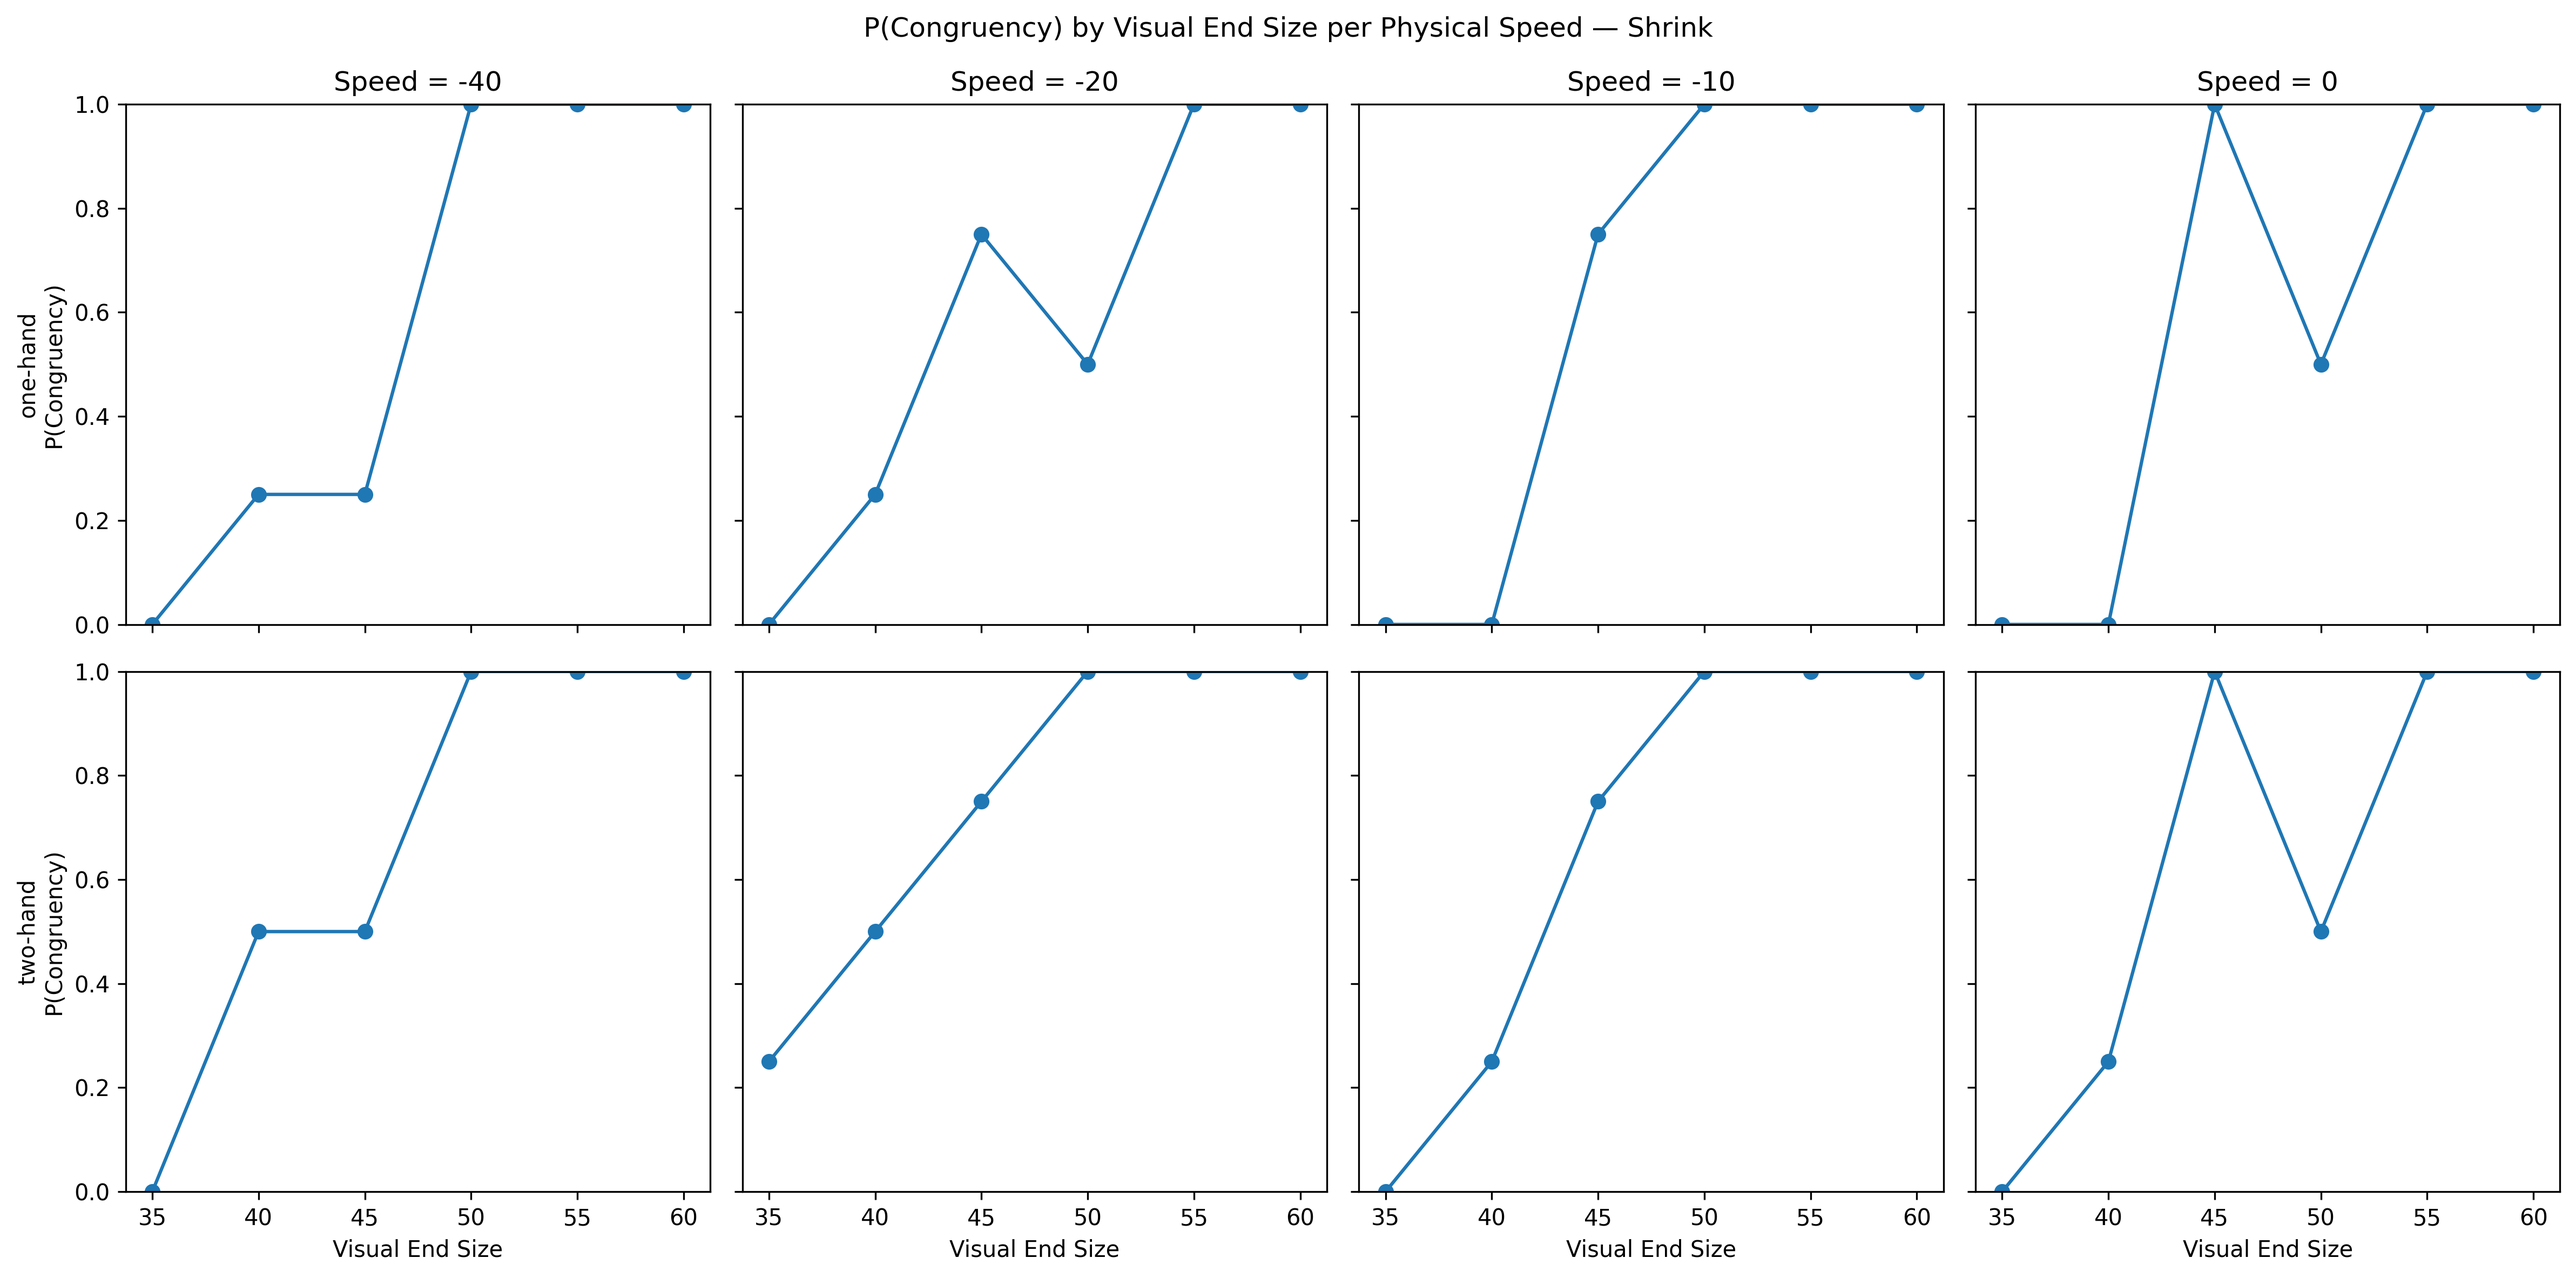
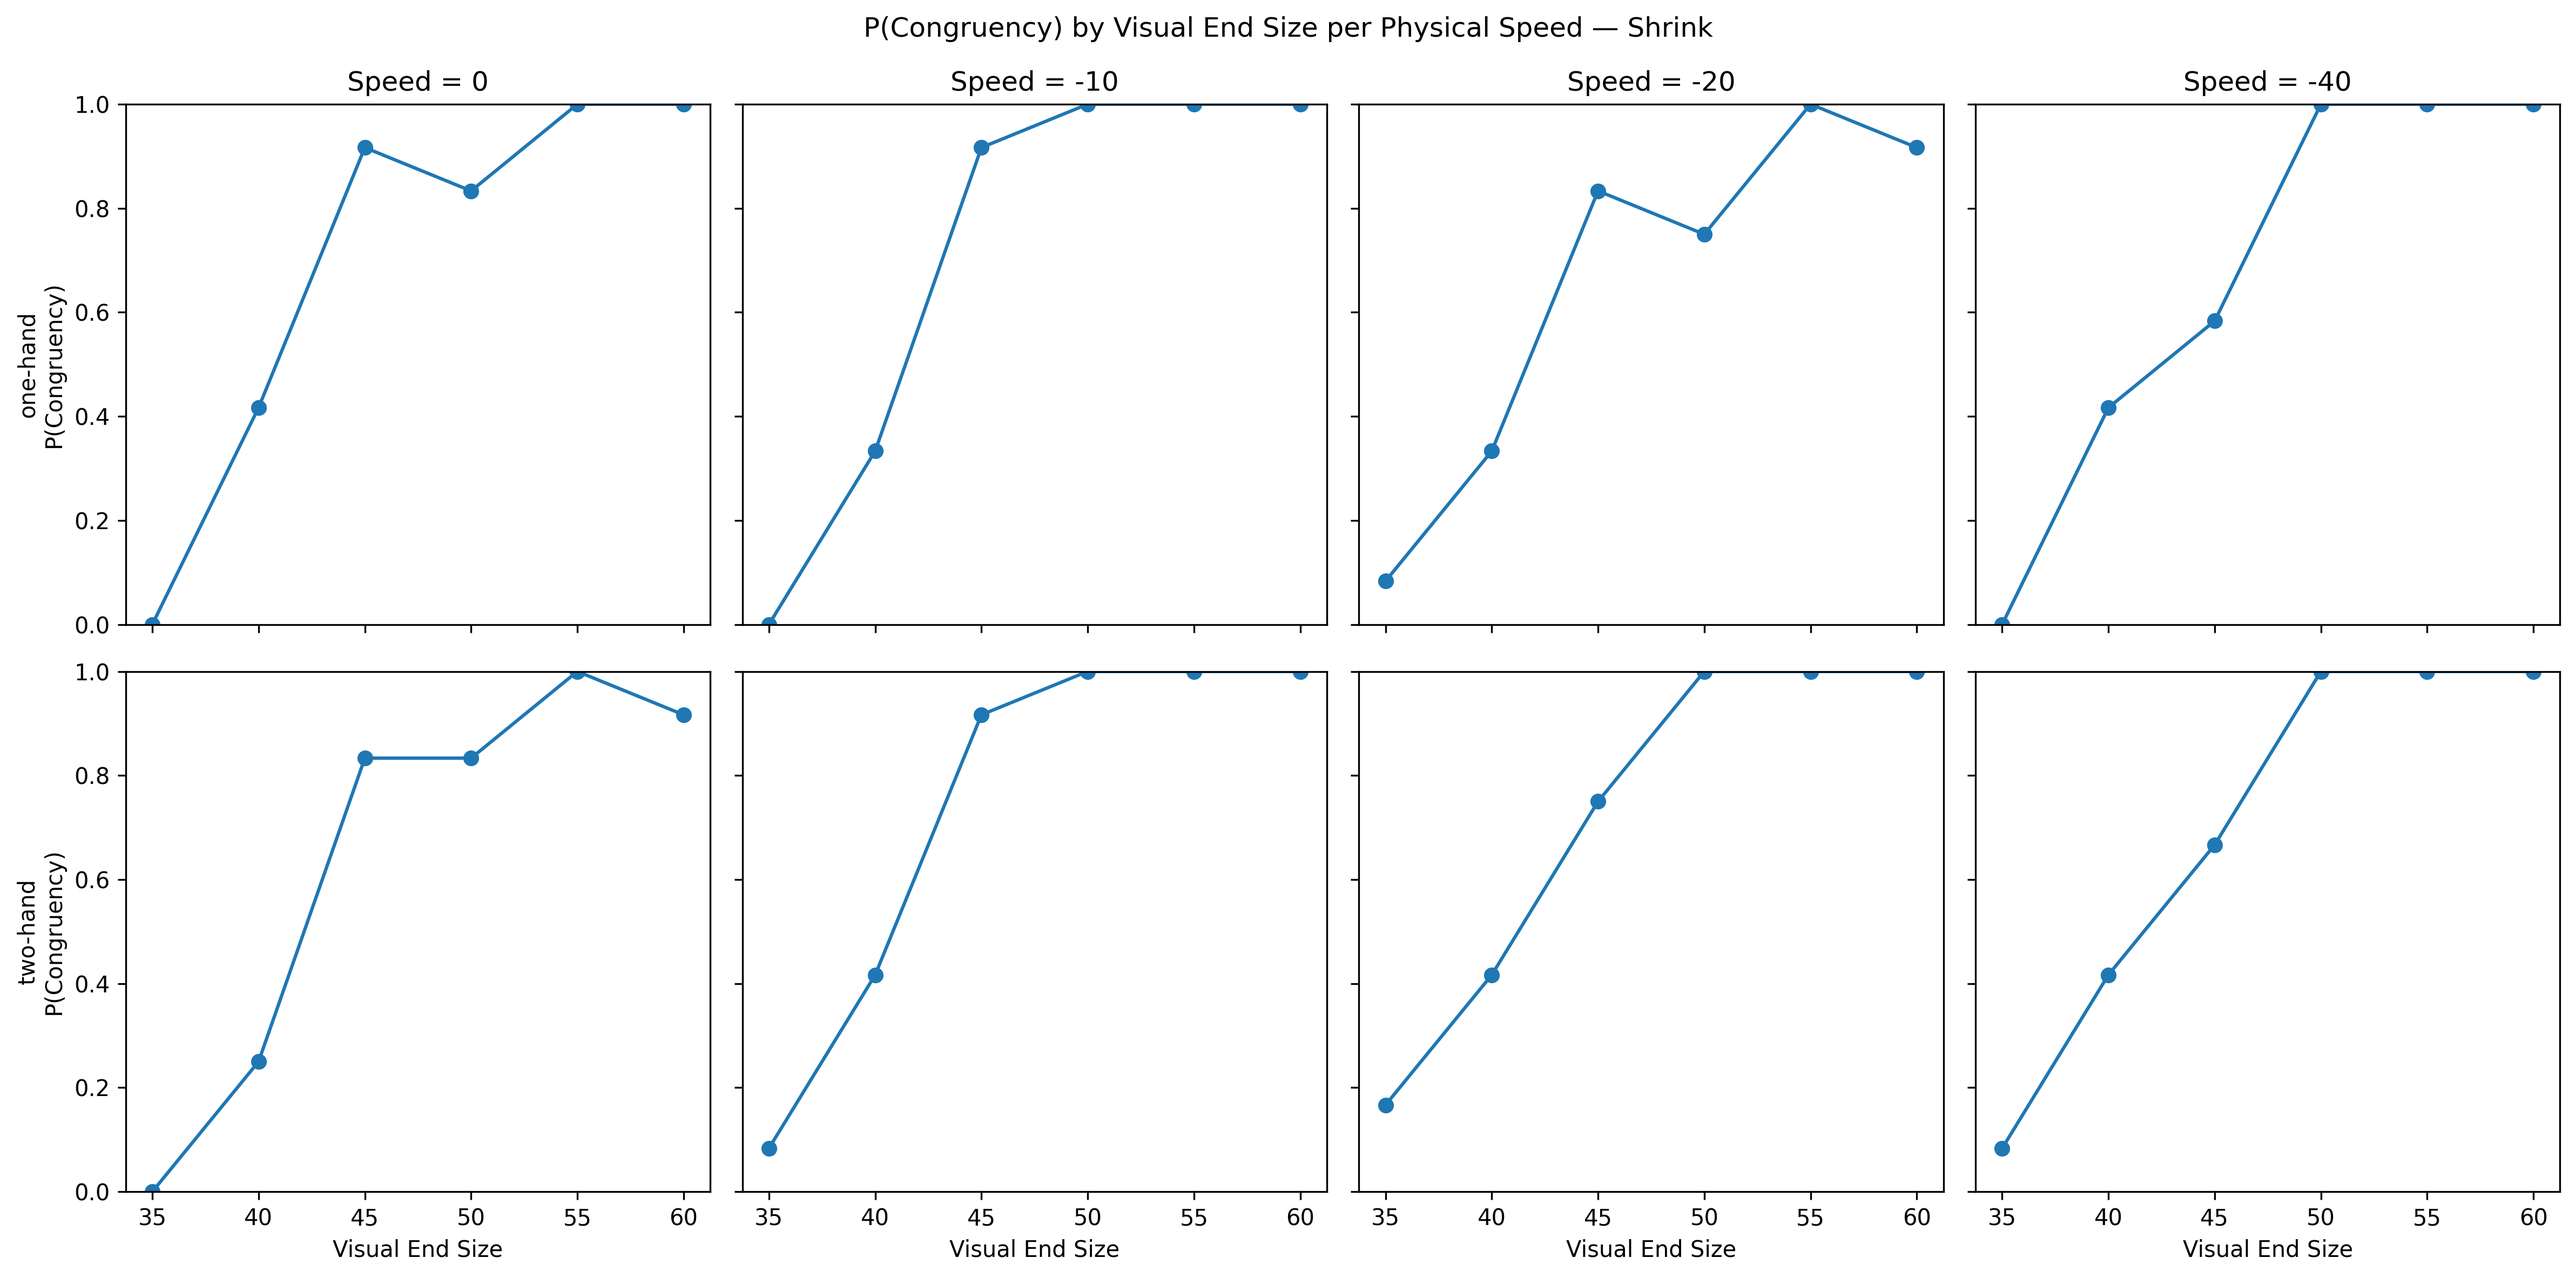
study 2 3 pars

diff --git a/Assets/data/study2_shrink/visualizer.py b/Assets/data/study2_shrink/visualizer.py
@@ -5,7 +5,7 @@ import numpy as np
 import matplotlib.pyplot as plt
 import matplotlib.patches as patches
 
-pids = [1,2]
+pids = [1,2,3]
 
 data_dir = os.path.join(os.path.dirname(__file__), "p_sheets")
 csv_files = glob.glob(os.path.join(data_dir, "**", "*_conditions.csv"), recursive=True)
@@ -52,18 +52,29 @@ plt.rcParams["hatch.linewidth"] = 2.0
 fig2, axes2 = plt.subplots(len(scenarios), 1, figsize=(10, 6 * len(scenarios)), sharey=True, sharex=True)
 bar_width = 6
 
+spacing = 10
+static_gap = 8
+speed_positions = []
+for i, s in enumerate(speeds):
+    pos = i * spacing
+    if i > 0 and speeds[0] == 0:
+        pos += static_gap
+    speed_positions.append(pos)
+speed_labels = ["Static" if s == 0 else str(s) for s in speeds]
+
 for row, scenario in enumerate(scenarios):
     ax2 = axes2[row]
     sdf = df[df["scenario"] == scenario]
     grouped_all = sdf.groupby(["physical_speed", "visual_end_size"])["congruency"].mean()
 
-    for speed in speeds:
+    for i, speed in enumerate(speeds):
+        pos = speed_positions[i]
         series = grouped_all[speed].sort_index()
         y = series.index.values
         y_min, y_max = y.min(), y.max()
 
         hatch_patch = patches.Rectangle(
-            (speed - bar_width / 2, y_min),
+            (pos - bar_width / 2, y_min),
             bar_width,
             y_max - y_min,
             linewidth=0.5,
@@ -79,7 +90,7 @@ for row, scenario in enumerate(scenarios):
             y_low = y[mask].min()
             y_high = y[mask].max()
             solid_patch = patches.Rectangle(
-                (speed - bar_width / 2, y_low),
+                (pos - bar_width / 2, y_low),
                 bar_width,
                 y_high - y_low,
                 linewidth=0,
@@ -102,17 +113,18 @@ for row, scenario in enumerate(scenarios):
         )
         ax2.legend(handles=[hatch_legend, solid_legend], loc='upper left')
 
-    ax2.set_xticks(speeds)
-    ax2.set_xlim(max(speeds) + 10, min(speeds) - 10)
+    ax2.set_xticks(speed_positions)
+    ax2.set_xticklabels(speed_labels)
+    ax2.set_xlim(speed_positions[0] - 5, speed_positions[-1] + 5)
     ax2.set_ylim(30, 65)
     ax2.set_yticks(np.arange(35, 65, 5))
-    ax2.set_ylabel(f"{scenario}\nVisual End Size (%)")
-    ax2.set_title(f"Congruency Bands — {scenario}")
+    ax2.set_ylabel(f"{scenario}\nVisual End Size (mm)")
+    ax2.set_title(f"{scenario}")
     ax2.grid(axis='y', linestyle='--', alpha=0.7)
     if row == len(scenarios) - 1:
         ax2.set_xlabel("Physical Speed (mm/s)")
 
-fig2.suptitle("Congruency Bands by Physical Speed — Shrink")
+fig2.suptitle("Congruency - Shrink")
 fig2.tight_layout()
 fig2.savefig(os.path.join(results_dir, "congruency_range.png"), dpi=300, bbox_inches="tight")
 plt.close()

diff --git a/Assets/data/study2_expand/visualizer.py b/Assets/data/study2_expand/visualizer.py
@@ -5,7 +5,7 @@ import numpy as np
 import matplotlib.pyplot as plt
 import matplotlib.patches as patches
 
-pids = [1,2]
+pids = [1,2,3]
 
 data_dir = os.path.join(os.path.dirname(__file__), "p_sheets")
 csv_files = glob.glob(os.path.join(data_dir, "**", "*_conditions.csv"), recursive=True)
@@ -52,18 +52,29 @@ plt.rcParams["hatch.linewidth"] = 2.0
 fig2, axes2 = plt.subplots(len(scenarios), 1, figsize=(10, 6 * len(scenarios)), sharey=True, sharex=True)
 bar_width = 6
 
+spacing = 10
+static_gap = 8
+speed_positions = []
+for i, s in enumerate(speeds):
+    pos = i * spacing
+    if i > 0 and speeds[0] == 0:
+        pos += static_gap
+    speed_positions.append(pos)
+speed_labels = ["Static" if s == 0 else str(s) for s in speeds]
+
 for row, scenario in enumerate(scenarios):
     ax2 = axes2[row]
     sdf = df[df["scenario"] == scenario]
     grouped_all = sdf.groupby(["physical_speed", "visual_end_size"])["congruency"].mean()
 
-    for speed in speeds:
+    for i, speed in enumerate(speeds):
+        pos = speed_positions[i]
         series = grouped_all[speed].sort_index()
         y = series.index.values
         y_min, y_max = y.min(), y.max()
 
         hatch_patch = patches.Rectangle(
-            (speed - bar_width / 2, y_min),
+            (pos - bar_width / 2, y_min),
             bar_width,
             y_max - y_min,
             linewidth=0.5,
@@ -79,7 +90,7 @@ for row, scenario in enumerate(scenarios):
             y_low = y[mask].min()
             y_high = y[mask].max()
             solid_patch = patches.Rectangle(
-                (speed - bar_width / 2, y_low),
+                (pos - bar_width / 2, y_low),
                 bar_width,
                 y_high - y_low,
                 linewidth=0,
@@ -102,17 +113,18 @@ for row, scenario in enumerate(scenarios):
         )
         ax2.legend(handles=[hatch_legend, solid_legend], loc='upper left')
 
-    ax2.set_xticks(speeds)
-    ax2.set_xlim(min(speeds) - 10, max(speeds) + 10)
+    ax2.set_xticks(speed_positions)
+    ax2.set_xticklabels(speed_labels)
+    ax2.set_xlim(speed_positions[0] - 5, speed_positions[-1] + 5)
     ax2.set_ylim(60, 200)
     ax2.set_yticks(np.arange(80, 200, 20))
-    ax2.set_ylabel(f"{scenario}\nVisual End Size (%)")
-    ax2.set_title(f"Congruency Bands — {scenario}")
+    ax2.set_ylabel(f"{scenario}\nVisual End Size (mm)")
+    ax2.set_title(f"{scenario}")
     ax2.grid(axis='y', linestyle='--', alpha=0.7)
     if row == len(scenarios) - 1:
         ax2.set_xlabel("Physical Speed (mm/s)")
 
-fig2.suptitle("Congruency Bands by Physical Speed")
+fig2.suptitle("Congruency - Grow")
 fig2.tight_layout()
 fig2.savefig(os.path.join(results_dir, "congruency_range.png"), dpi=300, bbox_inches="tight")
 plt.close()
